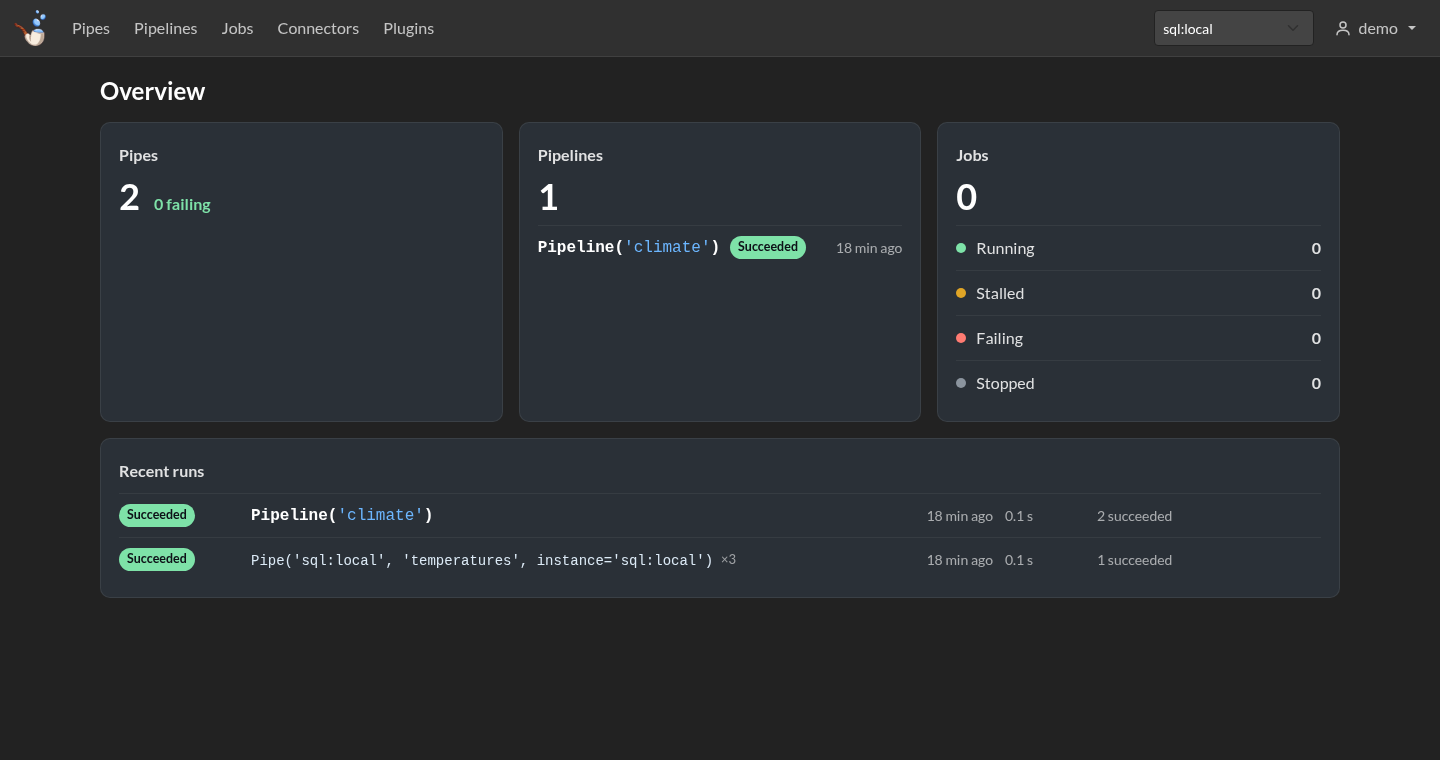
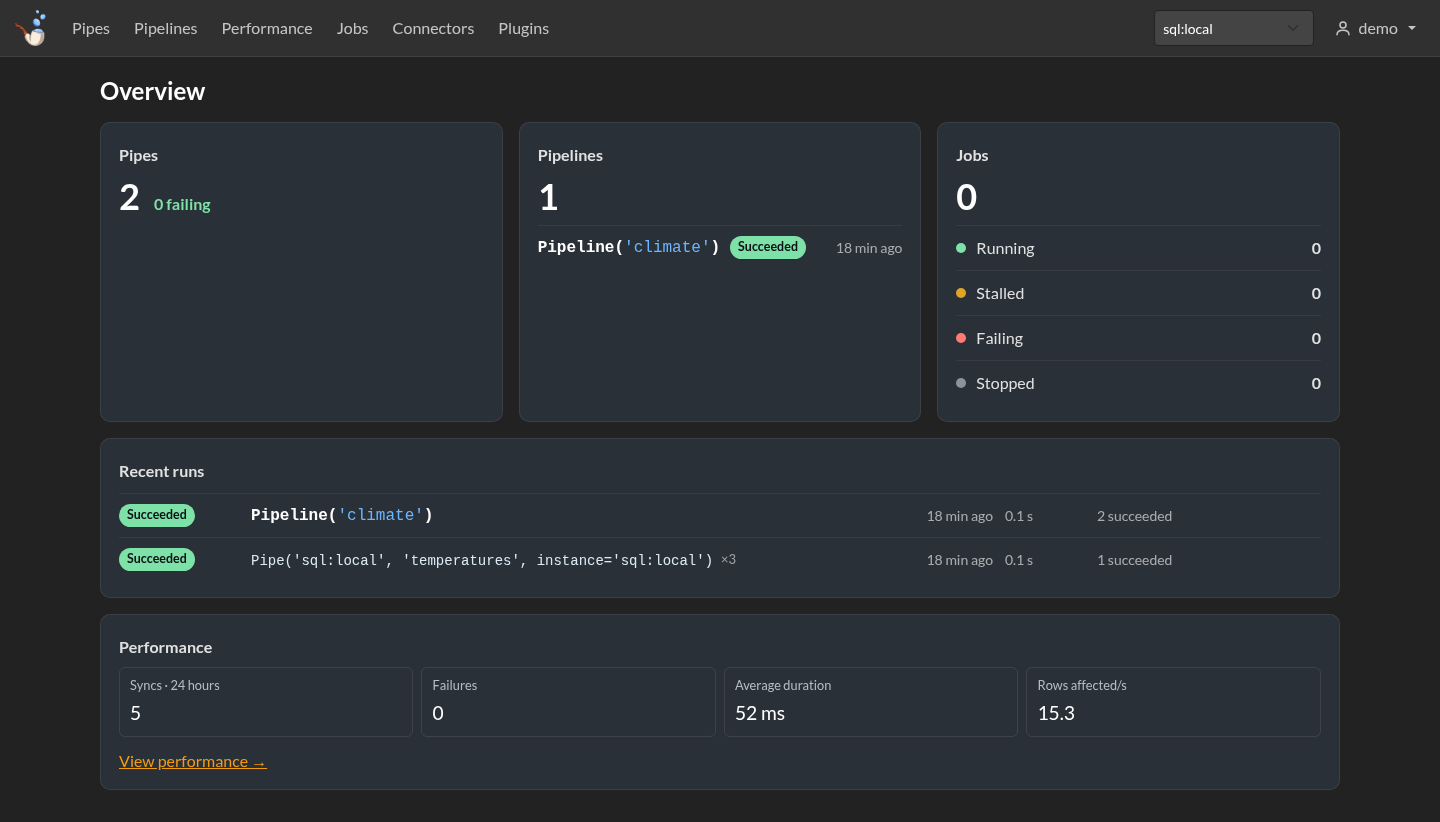
📚 Refresh v5 tutorials and document native performance metrics

diff --git a/docs/zensical/reference/api-instance/web-console.md b/docs/zensical/reference/api-instance/web-console.md
@@ -6,7 +6,7 @@ The Meerschaum Web Console provides a graphical interface for managing your Meer
 
     The Web Console is the Plotly Dash app of the Python package: install it with `pip install meerschaum[dash]` (also part of `meerschaum[full]` and the `full` Docker image). The Python API host serves it and the Rust API server proxies `/dash` to it. A standalone install (`cargo install meerschaum`, the `rust` Docker image) serves the API, `/docs`, `/engine/*`, MCP and the web terminal, and shows a pointer page at `/dash` that names this command. `--no-dash` turns the console off.
 
-<img src="/assets/screenshots/web-console.png" alt="The Web Console's Overview">
+![The v5 console Overview](../../assets/screenshots/v5-overview.png){ .mrsm-screenshot }
 
 ---
 
@@ -15,7 +15,7 @@ The Meerschaum Web Console provides a graphical interface for managing your Meer
 Every page of the console has the same bar at the top:
 
 - the **Meerschaum logo**, which opens the [Overview](#overview);
-- **Pipes**, **Pipelines**, **Jobs**, **Connectors**, **Plugins** and **Terminal**, each shown to the users whose permissions include it (see [Who sees what](#who-sees-what)): **Terminal** needs `webterm:use` (the Operator role and administrators). Under `--secure`, **Connectors** and **Terminal** are for administrators only;
+- **Pipes**, **Pipelines**, **Performance**, **Jobs**, **Connectors**, **Plugins** and **Terminal**, each shown to the users whose permissions include it (see [Who sees what](#who-sees-what)): **Terminal** needs `webterm:use` (the Operator role and administrators). Under `--secure`, **Connectors** and **Terminal** are for administrators only;
 - **Pages**, the pages your plugins add (grouped by their `page_group`), when there are any;
 - the **instance** selector: the instance every page shows (the Pipes, Pipelines and Overview pages, the Terminal's filters). Your choice is remembered in the browser, and a link with `?instance=sql:other` opens a page on another instance;
 - the **user menu** (your username): **Users & Teams**, **Tokens**, **Settings** (change your password) and **Sign out**.
@@ -38,8 +38,15 @@ The console answers only signed-in visitors: a page shows the login form until y
 - **Pipelines**: each saved Pipeline with its last run (failed ones first), opening it on that run;
 - **Jobs**: the jobs running, stalled (no successful sync for three times their interval), failing and stopped, each opening the Jobs page filtered to that state;
 - **Recent runs**: the latest runs of the Syncing Engine, failures first. A job that syncs the same pipes again and again takes one row (`×12`).
+- **Performance**: sync counts, failures, average duration, and rows affected/s over the last 24 hours.
 
 The tiles refresh every 30 seconds. On an instance without pipes, the Pipes tile shows **New pipe** and **Open terminal** instead of its numbers; the other tiles stay.
+
+## Performance
+
+Open **Performance** (`/dash/performance`) to compare duration, write rate, and failures. Choose a time window and filter by Pipe or Pipeline. Charts show the trend; tables show each Pipe or Pipeline and recent syncs.
+
+**Rows affected/s** counts inserted, updated, upserted, and deleted rows. Replacements count both deletion and new rows; an unchanged sync affects zero rows. See [Sync metrics](sync-metrics.md) for Python access, retention, and capture limits.
 
 ## Terminal
 
@@ -76,7 +83,9 @@ api:
 
 ## Connectors
 
-The **Connectors** page (`/dash/connectors`) lists the connectors the server knows, read-only: each connector's keys and type, where it is defined (**Config**, **Default** for a built-in connector left as shipped, **Environment** with the variable's name such as `MRSM_SQL_FOO` or `MRSM_CONFIG`, or **Plugin**), and for administrators its flavor, host, port and database; click a connector's keys to see its other attributes. Users who are not administrators see the keys, type and source only (`connectors:read`). Type in the filter box to narrow the list.
+The **Connectors** page (`/dash/connectors`) lists each connector's keys, type, and source: **Config**, **Default**, **Environment**, or **Plugin**. Type in the filter box to narrow the list. Team restrictions determine which connectors appear.
+
+Administrators also see flavor, host, port, database, and schema. Choose **Inspect** to open masked settings and required / supported keys. Passwords, tokens, nested secrets, and private URI values stay masked. Other readers see keys, type, and source only (`connectors:read`).
 
 Passwords, tokens, keys and secrets never reach the browser. The page shows the values of a connector's connection settings only (such as `flavor`, `host`, `port`, `database`, `username`, `schema`, `driver`, `sslmode` and the timeouts); every other attribute shows `••••••`, whatever its name. A URI keeps its scheme, user, host, port and database (`postgresql://user:••••••@host:5432/db`), and a connection string its settings of those names (`host=h user=u password=•••••• dbname=d`). A connection test's error is masked the same way.
 
@@ -171,6 +180,8 @@ The **Plugins** page has two tabs:
 - **Installed** (`/dash/plugins`): the plugins installed on the server, with their version, their kind (**Python**, or **Rust** as a single `.rs` file or a directory with a `plugin.toml`), what each provides (connectors, a data source, actions, pages, API routes, MCP tools, sync hooks) and whether the packages it requires are installed. A plugin that failed to import says so. Administrators can **Update** a plugin installed from a repository (the latest version from that repository) and **Uninstall** it.
 - **Repository** (`/dash/plugins?tab=repository`): the plugins published to this API as a [repository](/reference/connectors/#instances-and-repositories) (`mrsm register plugin <name> -r api:<label>`), to read and download. A plugin's owner edits its description here. Administrators can **Install** a published plugin on the server (**Reinstall** when it is installed already).
 
+Open a published plugin's page to inspect its **Source**, then choose a file. Administrators can also open an installed plugin's name to read its local source. Source previews are read-only; large, binary, or linked files may not have a preview.
+
 Install, Update and Uninstall run the usual actions (`install plugins`, `uninstall plugins`) as one of the console's runs, listed under Jobs > **Runs**; the page says when the action finished, with **View output**. When the change adds or removes a plugin's pages or API routes, the server restarts its Python host to load it. An install from this server's repository downloads the plugin from the server itself (the job's connector `api:this_server`, also recorded as the plugin's origin for **Update**); on a `--private` server that connector carries a token of the administrator who clicked, which may only read plugins (`plugins:read`) and expires after 30 minutes.
 
 <img src="/assets/screenshots/web-console-plugins.png" alt="Plugins page">
@@ -228,7 +239,7 @@ The instance's only admin cannot be demoted or deleted: make another user an adm
 
 | | Viewer | Editor | Operator | Team manager | Admin |
 |---|---|---|---|---|---|
-| Pipes, Pipelines, Jobs, Plugins, Connectors pages | ✓ | ✓ | ✓ | ✓ | ✓ |
+| Pipes, Pipelines, Performance, Jobs, Plugins, Connectors pages | ✓ | ✓ | ✓ | ✓ | ✓ |
 | Terminal page and Exec | | | ✓ | (by role) | ✓ |
 | Register, edit and sync their pipes | | ✓ | ✓ | ✓ | ✓ |
 | Access… and Locks… | their own pipes | their own pipes | their own pipes | their team's pipes | every pipe |

diff --git a/CHANGELOG.md b/CHANGELOG.md
@@ -96,11 +96,17 @@ The notes below are written for someone upgrading from 4.1. Everything that beha
 - **Every pipe remembers how its last sync went.**  
   Every sync records its outcome on the pipe's instance, whatever ran it: `mrsm sync pipes`, a job's laps and `--listen` flushes, a Pipeline run, the API server's sync route, `api:` clients, and `pipe.sync()` in Python or in a plugin. The record holds the last attempt, success and failure, the latest message, the row counts and duration, the failures since the last success, what ran it (`cli`, `job`, `engine`, `api`, `python`) and the job's name. Read it with `pipe.get_sync_status()`, `mrsm.get_sync_statuses()` or `GET /engine/sync-status`; `mrsm show pipes` ends with a line for each pipe whose latest sync failed, and the web console's Pipes table and Overview show it. Recording never fails or slows a sync: it is written in the background (successes at most every 5 seconds per pipe, failures at once), and dropping, deleting or fully clearing a pipe forgets it. See [Sync status](/reference/pipelines/state/#sync-status).
 
+- **See sync performance without a plugin.**\
+  Native syncs keep 30 days of numeric history: durations, failures, retries, chunks and affected rows. The console's **Performance** page shows Plotly charts and Pipe and Pipeline summaries; Overview links to it. The Stack adds three dashboards to Grafana's **Meerschaum Dashboards** folder. Console and API metrics follow current Pipe, Pipeline and connector access; passwords, SQL and error text are excluded.
+
 - **Plans and runs in plain words.**  
   `plan pipes`, the console's Plan and the run history explain each pipe in sentences ("up to date: Pipe('sql:main', 'raw') has no new data (latest 2026-10-12 09:45)") instead of ledger, cursor and watermark jargon; sync windows read "last sync − 1 day → latest data", and a run's message lists only what happened ("3 synced, 1 up to date"). A scheduled pipe with parents in a `--parents` / `--children` run syncs when its parents have new data rather than on its `schedule`: the loop warns about it once and `plan pipes` lists the warning. In a flat selection every pipe follows its own schedule.
 
 - **A Pipelines workspace in the web console.**  
   `/dash/pipelines` lists the Pipelines registered on the console's instance as cards (members, instances, last run, schedule) with **New pipeline**, which walks through name, members, traversal and a review of the plan, checks and proposed tags before anything is saved, and **Find Pipe**, which explores any Pipe's connected graph and saves it as a Pipeline. Each Pipeline has its own page with Canvas and Runs tabs: the canvas starts with the explicit members and folds parents and children into expandable upstream and downstream nodes, a node opens its inspector in a side drawer, and the page is read-only until **Edit** (add and remove members, draw dependency edges, undo/redo, drafts kept in the browser, revision checks on save). Run a Pipeline or a single Pipe and follow its output, each member Pipe's output within a run, and a live Gantt timeline. The instance selector is shared across console pages, and an instance the API does not allow is refused with a message. A Pipe's page has a Lineage tab where you add and remove its parents and children.
+
+- **A faster console with useful inspection.**\
+  Pipeline cards share a bounded history read and load saved definitions in bulk. Pipe Lineage opens its graph correctly. Connectors show configuration and supported keys with secrets masked; Plugins offers read-only source inspection with current permissions enforced. Expanding the mobile menu keeps the navbar in place.
 
 - **Watch data move through a pipeline.**  
   On a terminal, graph runs (`sync pipes --parents/--children/--resume`, `sync pipelines`) and `--loop` / `--listen` laps show an inline live region with one row per running pipe: chunk progress, rows inserted, updated and upserted so far, rows/s and the attempt. Plan decisions, retries and finished pipes scroll above it, and the Gantt chart follows at the end. Press `w` to open the full-screen run monitor and leave it to return to the inline view while the run keeps going. `--nopretty`, `--debug` and piped output keep line output. Every pipe's result prints as soon as it finishes, with its duration and position in the run, in job logs and piped output too, and the closing summary adds row totals, the slowest pipes and each failure's reason.

diff --git a/docs/zensical/news/changelog.md b/docs/zensical/news/changelog.md
@@ -96,11 +96,17 @@ The notes below are written for someone upgrading from 4.1. Everything that beha
 - **Every pipe remembers how its last sync went.**  
   Every sync records its outcome on the pipe's instance, whatever ran it: `mrsm sync pipes`, a job's laps and `--listen` flushes, a Pipeline run, the API server's sync route, `api:` clients, and `pipe.sync()` in Python or in a plugin. The record holds the last attempt, success and failure, the latest message, the row counts and duration, the failures since the last success, what ran it (`cli`, `job`, `engine`, `api`, `python`) and the job's name. Read it with `pipe.get_sync_status()`, `mrsm.get_sync_statuses()` or `GET /engine/sync-status`; `mrsm show pipes` ends with a line for each pipe whose latest sync failed, and the web console's Pipes table and Overview show it. Recording never fails or slows a sync: it is written in the background (successes at most every 5 seconds per pipe, failures at once), and dropping, deleting or fully clearing a pipe forgets it. See [Sync status](/reference/pipelines/state/#sync-status).
 
+- **See sync performance without a plugin.**\
+  Native syncs keep 30 days of numeric history: durations, failures, retries, chunks and affected rows. The console's **Performance** page shows Plotly charts and Pipe and Pipeline summaries; Overview links to it. The Stack adds three dashboards to Grafana's **Meerschaum Dashboards** folder. Console and API metrics follow current Pipe, Pipeline and connector access; passwords, SQL and error text are excluded.
+
 - **Plans and runs in plain words.**  
   `plan pipes`, the console's Plan and the run history explain each pipe in sentences ("up to date: Pipe('sql:main', 'raw') has no new data (latest 2026-10-12 09:45)") instead of ledger, cursor and watermark jargon; sync windows read "last sync − 1 day → latest data", and a run's message lists only what happened ("3 synced, 1 up to date"). A scheduled pipe with parents in a `--parents` / `--children` run syncs when its parents have new data rather than on its `schedule`: the loop warns about it once and `plan pipes` lists the warning. In a flat selection every pipe follows its own schedule.
 
 - **A Pipelines workspace in the web console.**  
   `/dash/pipelines` lists the Pipelines registered on the console's instance as cards (members, instances, last run, schedule) with **New pipeline**, which walks through name, members, traversal and a review of the plan, checks and proposed tags before anything is saved, and **Find Pipe**, which explores any Pipe's connected graph and saves it as a Pipeline. Each Pipeline has its own page with Canvas and Runs tabs: the canvas starts with the explicit members and folds parents and children into expandable upstream and downstream nodes, a node opens its inspector in a side drawer, and the page is read-only until **Edit** (add and remove members, draw dependency edges, undo/redo, drafts kept in the browser, revision checks on save). Run a Pipeline or a single Pipe and follow its output, each member Pipe's output within a run, and a live Gantt timeline. The instance selector is shared across console pages, and an instance the API does not allow is refused with a message. A Pipe's page has a Lineage tab where you add and remove its parents and children.
+
+- **A faster console with useful inspection.**\
+  Pipeline cards share a bounded history read and load saved definitions in bulk. Pipe Lineage opens its graph correctly. Connectors show configuration and supported keys with secrets masked; Plugins offers read-only source inspection with current permissions enforced. Expanding the mobile menu keeps the navbar in place.
 
 - **Watch data move through a pipeline.**  
   On a terminal, graph runs (`sync pipes --parents/--children/--resume`, `sync pipelines`) and `--loop` / `--listen` laps show an inline live region with one row per running pipe: chunk progress, rows inserted, updated and upserted so far, rows/s and the attempt. Plan decisions, retries and finished pipes scroll above it, and the Gantt chart follows at the end. Press `w` to open the full-screen run monitor and leave it to return to the inline view while the run keeps going. `--nopretty`, `--debug` and piped output keep line output. Every pipe's result prints as soon as it finishes, with its duration and position in the run, in job logs and piped output too, and the closing summary adds row totals, the slowest pipes and each failure's reason.

diff --git a/docs/zensical/reference/api-instance/sync-metrics.md b/docs/zensical/reference/api-instance/sync-metrics.md
@@ -1,0 +1,48 @@
+# Sync metrics
+
+Find slow or failing syncs, and see how much data each Pipe or Pipeline changes.
+
+## In the console
+
+Open **Performance** in the navigation, or choose **View performance** on the Overview card. Pick a time window, then narrow it to a Pipe or Pipeline.
+
+- **Duration** shows the average time per sync.
+- **Write rate** shows **rows affected/s**.
+- **Results** shows successful and failed syncs over time.
+
+The tables below compare Pipes and Pipelines and list recent syncs. Hover over a chart for its values; drag to zoom and double-click to reset. **Refresh** reads the latest measurements.
+
+![The Performance view for the local climate example](../../assets/screenshots/v5-performance.png){ .mrsm-screenshot }
+
+**Rows affected** counts inserted, updated, upserted, and deleted rows. Replacing data counts the deletion and the new rows. An unchanged sync affects zero rows, even when it spends time fetching or checking data.
+
+## From Python
+
+Read measurements from your instance:
+
+```python
+import meerschaum as mrsm
+
+metrics = mrsm.get_engine_metrics(instance='sql:local', pipeline='climate')
+summary = metrics['summary']
+print(summary['syncs'], 'syncs;', summary['failed'], 'failed')
+print(summary['avg_duration_seconds'], 'seconds per sync')
+```
+
+Leave out `pipeline` for every Pipe, or pass a `Pipe` as `pipe=`. Use UTC datetimes for `begin=` and `end=` to choose a window.
+
+??? info "History, limits, and access"
+    - History is retained for **30 days**. The default query covers the last 24 hours.
+    - Native queries aggregate at most **5,000** detailed sync records; the console requests **1,000**. The page says when its result is limited. Choose a shorter window for a closer look.
+    - Capture runs in the background and is best effort. Queue or database pressure can drop a measurement without failing the sync.
+    - The console and HTTP API filter by your current Pipe, Pipeline, and team access before calculating results. An access change starts a new visible history segment.
+    - Clients from before **5.0.0rc16** do not backfill detailed sync history.
+    - The local Python SDK uses the instance's credentials. A hosted interface must supply its own access checks.
+
+## In Grafana
+
+The [Stack](../stack.md) dashboards show the same affected-row, duration, and failure measurements.
+
+Grafana reads directly with the database credentials configured for its data source. Its visibility follows those database permissions; the console and HTTP API apply their Pipe and team access rules.
+
+[Explore the console →](web-console.md)

diff --git a/docs/zensical/reference/stack.md b/docs/zensical/reference/stack.md
@@ -18,7 +18,7 @@ The default stack starts 4 services:
 
 You can edit the stack's Docker Compose file with `mrsm edit config stack`.
 
-The `api` service runs the `full` image of the same release as the `mrsm` that writes the compose file (for example `bmeares/meerschaum:5.0.0-full`) instead of a floating tag, so the API server and the client always speak the same version, and API plugins and the Dash console work without further installs. The image is built for `linux/amd64` and `linux/arm64`.
+The `api` service runs the `full` image of the same release as the `mrsm` that writes the compose file (`bmeares/meerschaum:<version>-full`), so the API server and the client use the same version, and API plugins and the Dash console work without further installs. The image is built for `linux/amd64` and `linux/arm64`.
 
 !!! info "Upgrading an existing stack to 5.x"
     Earlier versions of the stack ran `bmeares/meerschaum:api`. `mrsm stack` regenerates the compose file on every run: a root without `config/stack.yaml` takes the new image the next time you run `mrsm stack up -d`, which recreates only the `api` container (the volumes and the database are kept). After `pip install --upgrade meerschaum` the tag follows the new version in the same way, so run `mrsm stack up -d` after every upgrade (or `mrsm stack pull` first to fetch the image ahead of time).
@@ -134,6 +134,18 @@ mrsm stack up -d db grafana
     Grafana is included in the Meerschaum stack, pre-configured with the Meerschaum TimescaleDB database.
 
     Open a web browser and navigate to [http://localhost:3000](http://localhost:3000) where you can log into Grafana with username `admin`, password `admin`.
+
+### Built-in performance dashboards
+
+The Stack provisions three dashboards in Grafana's **Meerschaum Dashboards** folder:
+
+- **Meerschaum Performance** — the overall duration, failure, and write-rate picture.
+- **Pipe Performance** — focus on one Pipe and its recent syncs.
+- **Pipeline Performance** — compare Pipeline runs and follow their results.
+
+Use them to find slow Pipes, inspect recent failures, and follow P95 duration, retries, chunks, and **rows affected/s**. Replacements count deleted plus new rows; unchanged syncs affect zero rows.
+
+Grafana queries the configured database directly with its data-source credentials. Its visibility follows those database permissions. The web console and HTTP API apply their Pipe and team access rules. See [Sync metrics](api-instance/sync-metrics.md) for capture and history limits.
 
 ## 💾 Backing Up and Upgrading the Database
 

diff --git a/docs/zensical/get-started/start-api.md b/docs/zensical/get-started/start-api.md
@@ -20,7 +20,10 @@ Open [localhost:8001/dash](http://localhost:8001/dash). On an empty instance, **
 | **Overview** | See Pipes, Pipelines, jobs, and recent runs together. |
 | **Pipes** | Open `temperatures`, preview its rows, and inspect its settings. |
 | **Pipelines** | Open `climate` to explore its graph, preview a plan, and follow runs. |
+| **Performance** | Compare sync duration, failures, and rows affected per second. |
 | **Jobs** | Give a command or Pipeline a schedule and read its logs. |
+| **Connectors** | Inspect masked connection settings and the keys each connector accepts. |
+| **Plugins** | Browse installed and published plugins, and open their source when permitted. |
 | **Users & Teams** | Add people and choose what they may read or change. |
 
 ![The v5 Overview showing the tutorial's Pipes and climate Pipeline](../assets/screenshots/v5-overview.png){ .mrsm-screenshot }
@@ -32,6 +35,8 @@ Open **Pipelines → climate**. The workspace puts the graph beside the selected
 ![The climate Pipeline in the v5 console](../assets/screenshots/v5-pipeline.png){ .mrsm-screenshot }
 
 On a phone, switch between **Graph**, **Pipe details**, and **Output** to focus on one thing at a time.
+
+The **Performance** page follows the same work over time. Filter by `climate` to see its runs and sync measurements. See [Sync metrics](../reference/api-instance/sync-metrics.md) for the chart labels and history limits.
 
 ??? tip "Share with a team"
     An administrator can create users and teams. Give readers access to the data they need, and give editors only the actions they need. The console shows controls that match their permissions.

diff --git a/docs/zensical/get-started/index.md b/docs/zensical/get-started/index.md
@@ -3,7 +3,7 @@
 Your first Pipe needs Python and a few local rows. No database server or Docker setup is required.
 
 !!! info "Meerschaum 5 preview"
-    These pages are being prepared for the final 5.0.0 release. The examples and recordings were checked with 5.0.0rc15. Use `--pre` to install the latest published preview; the final release will use `pip install meerschaum`.
+    These pages are being prepared for the final 5.0.0 release. The examples and recordings were checked with the 5.0.0rc16 candidate. Use `--pre` to install the latest published preview; the final release will use `pip install meerschaum`.
 
 ## Install
 

diff --git a/docs/zensical/index.md b/docs/zensical/index.md
@@ -25,7 +25,7 @@ Turn a query or a Python function into a **Pipe**. Sync new data, connect your t
 
 <asciinema-player src="/assets/casts/v5-first-pipe.cast" size="small" preload="true" rows="15" title="Sync a Pipe, inspect the data, then sync again"></asciinema-player>
 
-<p class="mrsm-caption">A real run of the <a href="get-started/bootstrap/">first-Pipe example</a>, recorded with 5.0.0rc15. Play it, then try it yourself.</p>
+<p class="mrsm-caption">A real run of the <a href="get-started/bootstrap/">first-Pipe example</a>, recorded with the 5.0.0rc16 candidate. Play it, then try it yourself.</p>
 
 </div>
 

diff --git a/docs/zensical/news/v5.md b/docs/zensical/news/v5.md
@@ -3,7 +3,7 @@
 **A new foundation for the same small, useful idea: keep your data flowing.**
 
 !!! info "Documentation preview"
-    The final 5.0.0 release is being prepared for review. These examples were checked with 5.0.0rc15.
+    The final 5.0.0 release is being prepared for review. These examples were checked with the 5.0.0rc16 candidate.
 
 ## Start with a Pipe
 
